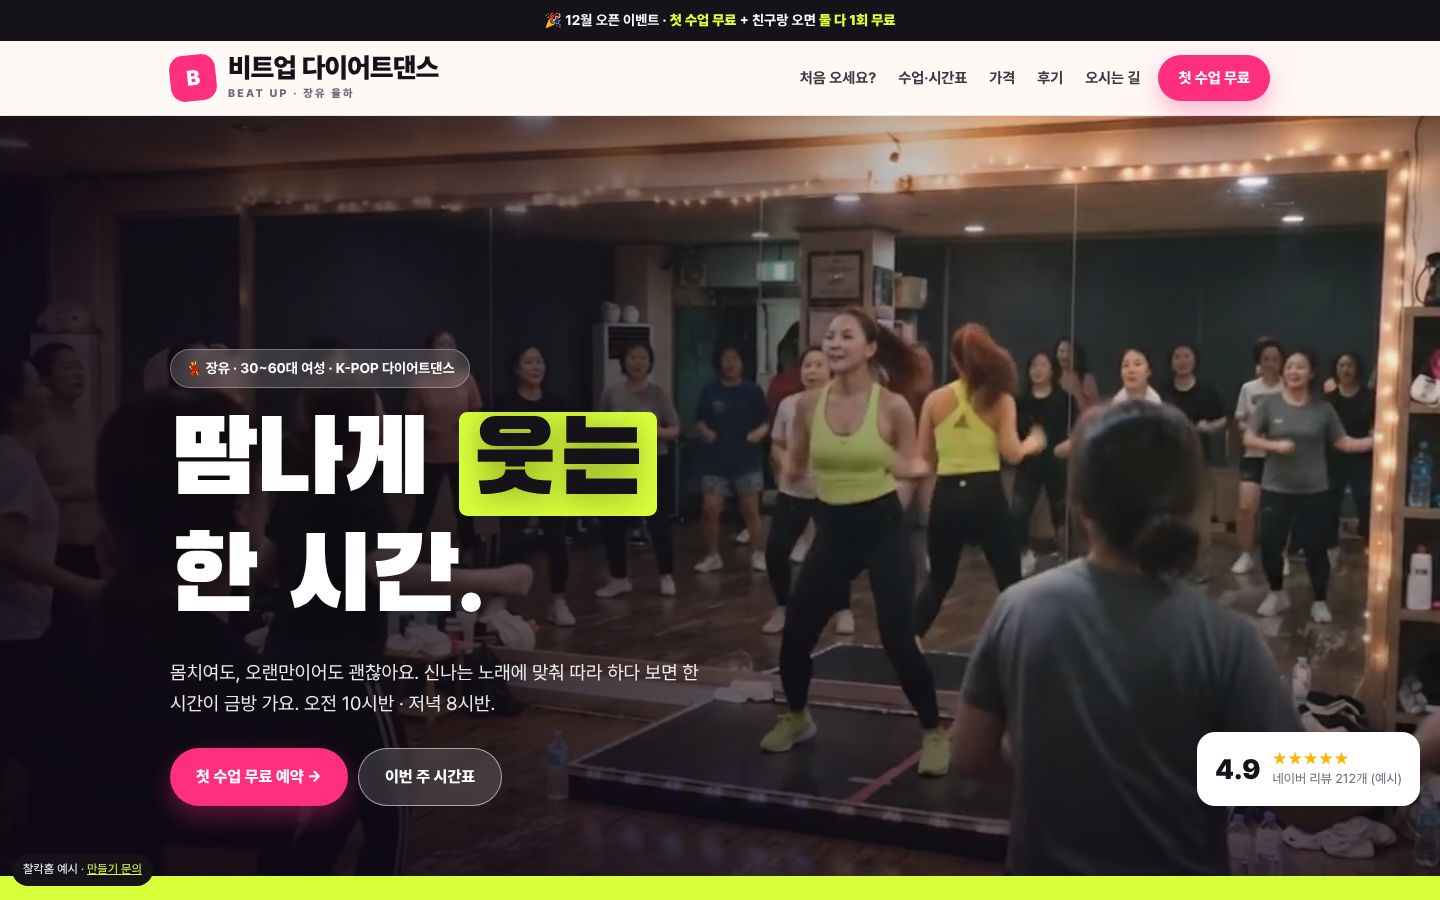
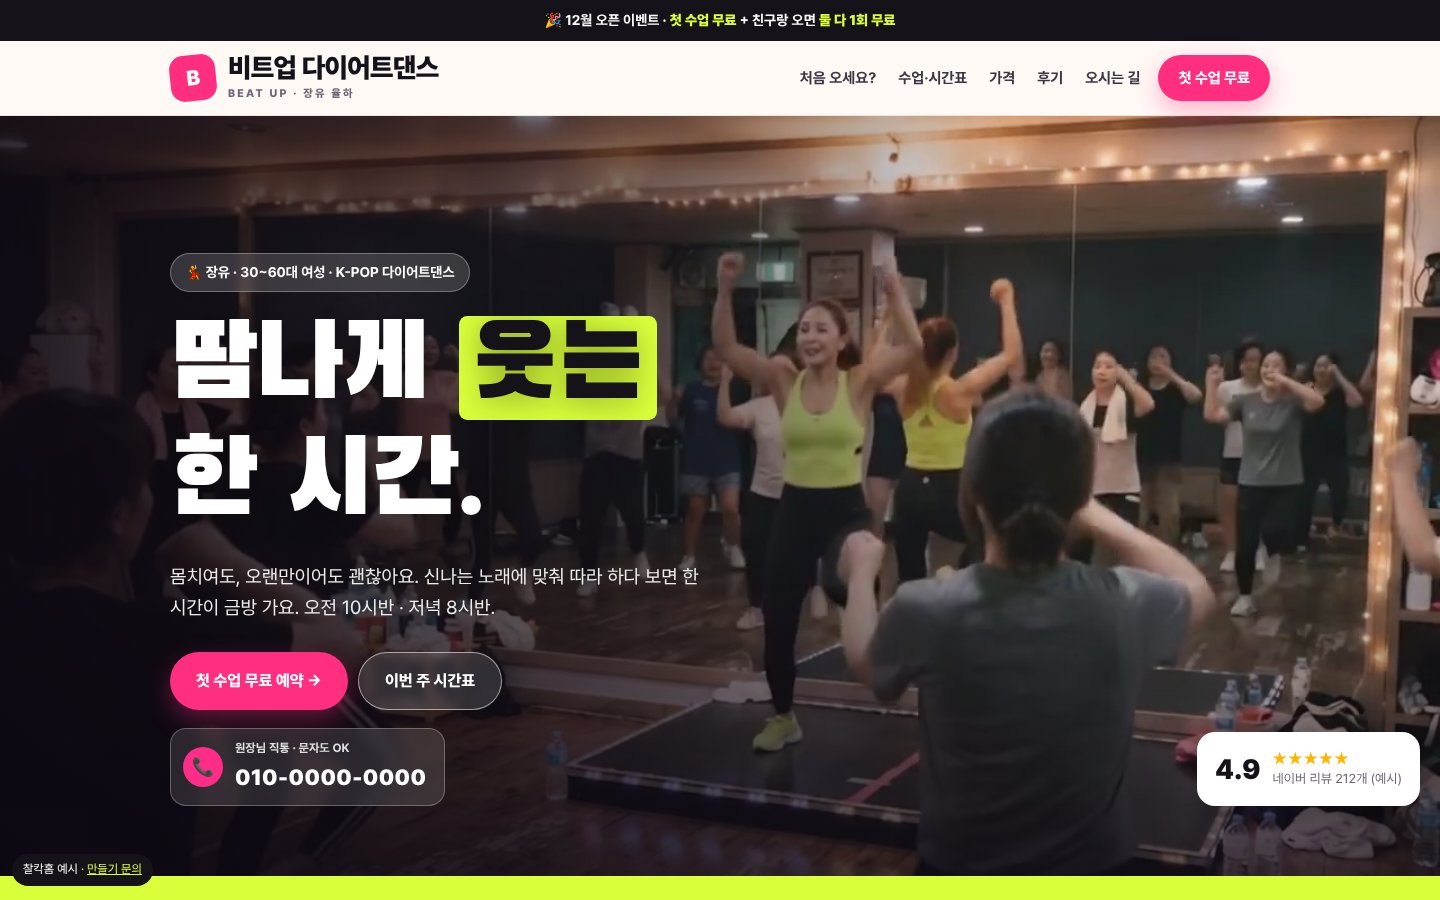
찰칵홈 포트폴리오에 비트업 다이어트댄스 추가
Claude-Session: https://claude.ai/code/session_01D8ERGz5r4FPkuXoKDYhqRw

diff --git a/web/index.html b/web/index.html
@@ -205,21 +205,22 @@ html{scroll-behavior:auto!important}
   <div class="cta"><a class="btn" href="#contact">🤝 맡기기 · 무료 견적</a><a class="btn o" href="#work">👀 만든 홈페이지 보기</a></div>
   <div class="trust"><span>⏱ 시안 <b>당일</b></span><span>🌐 한국어·영어 <b>동시</b></span><span>🔑 도메인·소스 <b>고객 소유</b></span></div>
  </div>
- <div class="wall" aria-label="찰칵홈이 만든 홈페이지"><a class="wi" href="https://kisthestar1-boop.github.io/hanbit-precision/" target="_blank" rel="noopener" style="background:#EEF2F7"><img src="img/pf_hb.jpg" alt="한빛정밀 · 정밀 가공 기업 화면"><span>🏭 기업</span></a><a class="wi" href="https://kisthestar1-boop.github.io/reve-de-beaute/" target="_blank" rel="noopener" style="background:#F6EFE6"><img src="img/pf_rv.jpg" alt="리브 드 보떼 · 데일리 주얼리 화면"><span>🛍 쇼핑몰 · 실제 브랜드</span></a><a class="wi" href="https://kisthestar1-boop.github.io/saebom-academy/" target="_blank" rel="noopener" style="background:#F3DA98"><img src="img/pf_ac.jpg" alt="새봄영어수학학원 · 동네 학원 화면"><span>📚 학원</span></a><a class="wi" href="https://kisthestar1-boop.github.io/ongyeol-pilates/" target="_blank" rel="noopener" style="background:#EEF1EA"><img src="img/pf_pl.jpg" alt="온결 필라테스 · 소형 스튜디오 화면"><span>🧘 필라테스</span></a></div>
+ <div class="wall" aria-label="찰칵홈이 만든 홈페이지"><a class="wi" href="https://kisthestar1-boop.github.io/hanbit-precision/" target="_blank" rel="noopener" style="background:#EEF2F7"><img src="img/pf_hb.jpg" alt="한빛정밀 · 정밀 가공 기업 화면"><span>🏭 기업</span></a><a class="wi" href="https://kisthestar1-boop.github.io/reve-de-beaute/" target="_blank" rel="noopener" style="background:#F6EFE6"><img src="img/pf_rv.jpg" alt="리브 드 보떼 · 데일리 주얼리 화면"><span>🛍 쇼핑몰 · 실제 브랜드</span></a><a class="wi" href="https://kisthestar1-boop.github.io/saebom-academy/" target="_blank" rel="noopener" style="background:#F3DA98"><img src="img/pf_ac.jpg" alt="새봄영어수학학원 · 동네 학원 화면"><span>📚 학원</span></a><a class="wi" href="https://kisthestar1-boop.github.io/ongyeol-pilates/" target="_blank" rel="noopener" style="background:#EEF1EA"><img src="img/pf_pl.jpg" alt="온결 필라테스 · 소형 스튜디오 화면"><span>🧘 필라테스</span></a><a class="wi" href="ex/beatup/" target="_blank" rel="noopener" style="background:#1B1424"><img src="img/pf_bu.jpg" alt="비트업 다이어트댄스 화면"><span>💃 다이어트댄스</span></a></div>
 </div>
 </div></div>
 <div class="kpi"><div class="w"><div><b>당일</b><span>첫 시안</span></div><div><b>2개 언어</b><span>한국어 · 영어 동시</span></div><div><b>49만 원~</b><span>제작비 한 번</span></div><div><b>고객 소유</b><span>도메인 · 소스 파일</span></div></div></div>
-<div class="inds"><div class="w"><b>업종별로 보기</b><button data-case="sh">⚙ 제조 리뉴얼<small>삼흥테크</small></button><button data-case="hb">🏭 기업<small>한빛정밀</small></button><button data-case="rv">🛍 쇼핑몰 · 실제 브랜드<small>리브 드 보떼</small></button><button data-case="ac">📚 학원<small>새봄영어수학학원</small></button><button data-case="pl">🧘 필라테스<small>온결 필라테스</small></button><span class="soonc">☕ 카페 · 🛋 인테리어 · 🩺 의원 — 곧 공개</span></div></div>
+<div class="inds"><div class="w"><b>업종별로 보기</b><button data-case="sh">⚙ 제조 리뉴얼<small>삼흥테크</small></button><button data-case="hb">🏭 기업<small>한빛정밀</small></button><button data-case="rv">🛍 쇼핑몰 · 실제 브랜드<small>리브 드 보떼</small></button><button data-case="ac">📚 학원<small>새봄영어수학학원</small></button><button data-case="bu">💃 다이어트댄스<small>비트업</small></button><button data-case="pl">🧘 필라테스<small>온결 필라테스</small></button><span class="soonc">☕ 카페 · 🛋 인테리어 · 🩺 의원 — 곧 공개</span></div></div>
 </div></div>
 
 <section id="work"><div class="w">
  <div class="sh"><span class="k">PORTFOLIO</span><h2>포트폴리오</h2><p>모두 <b>실제로 작동하는</b> 사이트예요. 카드를 누르면 사이트로 바로 들어가요.</p></div>
- <div class="flt"><button class="on" data-f="all">전체 5</button><button data-f="sh">⚙ 제조 리뉴얼</button><button data-f="hb">🏭 기업</button><button data-f="rv">🛍 쇼핑몰</button><button data-f="ac">📚 학원</button><button data-f="pl">🧘 필라테스</button></div>
+ <div class="flt"><button class="on" data-f="all">전체 6</button><button data-f="sh">⚙ 제조 리뉴얼</button><button data-f="hb">🏭 기업</button><button data-f="rv">🛍 쇼핑몰</button><button data-f="ac">📚 학원</button><button data-f="bu">💃 다이어트댄스</button><button data-f="pl">🧘 필라테스</button></div>
  <div class="pfx">
   <a style="--pbg:#E9EDF2" class="pfi" data-k="sh" href="https://kisthestar1-boop.github.io/samhung-tech/" target="_blank" rel="noopener"><div class="sh2" style="background:#E9EDF2"><img class="d" src="img/pf_sh.jpg" alt="삼흥테크 리뉴얼 시안 화면"><img class="m" src="img/pf_sh_m.jpg" alt=""></div><div class="ths"><img src="img/th_sh1.jpg" alt=""><img src="img/th_sh2.jpg" alt=""><img src="img/th_sh3.jpg" alt=""></div><div class="tx"><span class="tag">⚙ 제조 · 리뉴얼 시안</span><h3>삼흥테크 · 알루미늄 주조 공장</h3><small class="one">38년 된 공장 홈페이지를 새로 · 3개 언어 · 견적 게시판</small><span class="dt" data-case="sh">화면 · 기능 보기</span><span class="go">사이트 들어가기 ↗</span></div></a>
   <a style="--pbg:#EEF2F7" class="pfi" data-k="hb" href="https://kisthestar1-boop.github.io/hanbit-precision/" target="_blank" rel="noopener"><div class="sh2"><img class="d" src="img/pf_hb.jpg" alt="한빛정밀 홈페이지 화면"><img class="m" src="img/pf_hb_m.jpg" alt=""></div><div class="ths"><img src="img/th_hb1.jpg" alt=""><img src="img/th_hb2.jpg" alt=""><img src="img/th_hb3.jpg" alt=""></div><div class="tx"><span class="tag">🏭 기업 · 예시</span><h3>한빛정밀 · 정밀 가공 기업</h3><small class="one">서브 페이지 24개 · 도면 첨부 견적</small><span class="dt" data-case="hb">화면 · 기능 보기</span><span class="go">사이트 들어가기 ↗</span></div></a>
   <a style="--pbg:#F6EFE6" class="pfi r" data-k="rv" href="https://kisthestar1-boop.github.io/reve-de-beaute/" target="_blank" rel="noopener"><div class="sh2" style="background:#F6EFE6"><img class="d" src="img/pf_rv.jpg" alt="리브 드 보떼 쇼핑몰 화면"><img class="m" src="img/pf_rv_m.jpg" alt=""></div><div class="ths"><img src="img/th_rv1.jpg" alt=""><img src="img/th_rv2.jpg" alt=""><img src="img/th_rv3.jpg" alt=""></div><div class="tx"><span class="tag">🛍 판매자 · 실제 브랜드</span><h3>리브 드 보떼 · 데일리 주얼리</h3><small class="one">상품 8종 · 장바구니 · 카카오페이</small><span class="dt" data-case="rv">화면 · 기능 보기</span><span class="go">사이트 들어가기 ↗</span></div></a>
   <a style="--pbg:#F3DA98" class="pfi" data-k="ac" href="https://kisthestar1-boop.github.io/saebom-academy/" target="_blank" rel="noopener"><div class="sh2" style="background:#F3DA98"><img class="d" src="img/pf_ac.jpg" alt="새봄영어수학학원 홈페이지 화면"><img class="m" src="img/pf_ac_m.jpg" alt=""></div><div class="ths"><img src="img/th_ac1.jpg" alt=""><img src="img/th_ac2.jpg" alt=""><img src="img/th_ac3.jpg" alt=""></div><div class="tx"><span class="tag">📚 학원 · 예시</span><h3>새봄영어수학학원 · 동네 학원</h3><small class="one">시간표 · 레벨테스트 신청 · 카톡 상담</small><span class="dt" data-case="ac">화면 · 기능 보기</span><span class="go">사이트 들어가기 ↗</span></div></a>
+  <a style="--pbg:#1B1424" class="pfi" data-k="bu" href="ex/beatup/" target="_blank" rel="noopener"><div class="sh2" style="background:#1B1424"><img class="d" src="img/pf_bu.jpg" alt="비트업 다이어트댄스 홈페이지 화면"><img class="m" src="img/pf_bu_m.jpg" alt=""></div><div class="ths"><img src="img/th_bu1.jpg" alt=""><img src="img/th_bu2.jpg" alt=""><img src="img/th_bu3.jpg" alt=""></div><div class="tx"><span class="tag">💃 다이어트댄스 · 예시</span><h3>비트업 다이어트댄스 · 동네 댄스 학원</h3><small class="one">수업 영상 첫 화면 · 원장님 직통 번호 · 가격 공개</small><span class="dt" data-case="bu">화면 · 기능 보기</span><span class="go">사이트 들어가기 ↗</span></div></a>
   <a style="--pbg:#EEF1EA" class="pfi r" data-k="pl" href="https://kisthestar1-boop.github.io/ongyeol-pilates/" target="_blank" rel="noopener"><div class="sh2" style="background:#EEF1EA"><img class="d" src="img/pf_pl.jpg" alt="온결 필라테스 홈페이지 화면"><img class="m" src="img/pf_pl_m.jpg" alt=""></div><div class="ths"><img src="img/th_pl1.jpg" alt=""><img src="img/th_pl2.jpg" alt=""><img src="img/th_pl3.jpg" alt=""></div><div class="tx"><span class="tag">🧘 필라테스 · 예시</span><h3>온결 필라테스 · 소형 스튜디오</h3><small class="one">체험 가격 · 남은 자리 · 영상 첫 화면</small><span class="dt" data-case="pl">화면 · 기능 보기</span><span class="go">사이트 들어가기 ↗</span></div></a>
  </div>
  <div class="soon" style="margin-top:22px"><div>☕<b>동네 카페 · 베이커리</b>곧 공개 · 메뉴 · 예약 · 지도</div><div>🛋<b>인테리어 스튜디오</b>곧 공개 · 시공 사례 · 견적</div><div>🩺<b>한의원 · 의원</b>곧 공개 · 진료 안내 · 상담 예약</div></div>
@@ -328,7 +329,7 @@ $("#qForm").onsubmit=async e=>{e.preventDefault();const f={kind:$("#qKind").valu
  catch(err){ok.textContent="보내지 못했어요: "+err.message+" · 잠시 후 다시 시도해 주세요"}b.disabled=false};
 </script>
 <script>(()=>{const L=document.querySelectorAll(".lap .scr img"),M=document.querySelectorAll(".phn .scr img"),C=document.getElementById("stCap"),U=document.getElementById("stUrl");const T=[["한빛정밀 (예시)","기업 · 서브 페이지 24개","hanbit-precision"],["리브 드 보떼","쇼핑몰 · 주문 · 카카오페이","reve-de-beaute"]];let i=0;if(matchMedia("(prefers-reduced-motion: reduce)").matches)return;setInterval(()=>{i=(i+1)%T.length;L.forEach((x,k)=>x.classList.toggle("on",k===i));M.forEach((x,k)=>x.classList.toggle("on",k===i));C.innerHTML="<b>"+T[i][0]+"</b>"+T[i][1];U.textContent=T[i][2]},6000)})();</script>
-<script>(()=>{const C={"sh": {"u": "https://kisthestar1-boop.github.io/samhung-tech/", "t": "삼흥테크 · 알루미늄 주조 공장", "tag": "⚙ 제조 · 리뉴얼 시안", "bg": "#E9EDF2", "d": "pf_sh.jpg", "m": "pf_sh_m.jpg", "one": "2000년대에 머문 공장 홈페이지를 요즘 방식으로 바꾼 시안이에요. 실제 제품 사진을 선명하게 살리고, 공정 8단계와 설비·인증을 한눈에, 견적 게시판과 30초 주조 가능성 체크까지 넣었어요.", "th": [["th_sh1.jpg", "제품 갤러리 · 필터"], ["th_sh2.jpg", "공정 8단계 (누르면 설명)"], ["th_sh3.jpg", "견적 문의 게시판"]], "f": ["전·후 비교 팝업", "3단계 견적 · 도면 첨부", "30초 주조 가능성 체크", "한국어 · English · 日本語", "인증서 확대 · 구글 지도"]}, "hb": {"u": "https://kisthestar1-boop.github.io/hanbit-precision/", "t": "한빛정밀 · 정밀 가공 기업", "tag": "🏭 기업", "bg": "#EEF2F7", "d": "pf_hb.jpg", "m": "pf_hb_m.jpg", "one": "대기업처럼 전체 메뉴와 서브 페이지 24개. 숫자·인증·설비로 신뢰를 보여 주고, 도면을 첨부해 바로 견적을 받아요.", "th": [["th_hb1.jpg", "제품 소개"], ["th_hb2.jpg", "품질 · 지속가능경영"], ["th_hb3.jpg", "보도자료 · 공지"]], "f": ["전체 메뉴(메가 메뉴)", "서브 페이지 24개", "도면 첨부 견적 폼", "한국어 · 영어", "휴대폰 최적화"]}, "rv": {"u": "https://kisthestar1-boop.github.io/reve-de-beaute/", "t": "리브 드 보떼 · 데일리 주얼리", "tag": "🛍 쇼핑몰 · 실제 브랜드", "bg": "#F6EFE6", "d": "pf_rv.jpg", "m": "pf_rv_m.jpg", "one": "쿠팡에서 판매 중인 실제 브랜드의 자사몰. 상품 8종과 쿠팡 상세페이지를 연결했고 장바구니부터 카카오페이 주문까지 돼요.", "th": [["th_rv1.jpg", "베스트셀러 · 카테고리"], ["th_rv2.jpg", "선물 포장"], ["th_rv3.jpg", "목걸이에 담긴 이야기"]], "f": ["상품 8종 · 상세페이지", "장바구니 · 주문서", "카카오페이", "쿠팡 상세 연동", "선물 포장 옵션"]}, "ac": {"u": "https://kisthestar1-boop.github.io/saebom-academy/", "t": "새봄영어수학학원 · 동네 학원", "tag": "📚 학원", "bg": "#F3DA98", "d": "pf_ac.jpg", "m": "pf_ac_m.jpg", "one": "대형 어학원의 첫 화면 공식을 동네 학원에 맞췄어요. 레벨테스트를 3단계로 바로 신청하고, 카톡 상담도 그 자리에서 돼요.", "th": [["th_ac1.jpg", "학년 → 학교별 시간표"], ["th_ac2.jpg", "레벨테스트 신청 (3단계)"], ["th_ac3.jpg", "카톡 상담 창"]], "f": ["개강 소식 띠", "학교별 시간표", "레벨테스트 신청 → 문자 접수", "카톡 상담 · FAQ", "강사 · 성과"]}, "pl": {"u": "https://kisthestar1-boop.github.io/ongyeol-pilates/", "t": "온결 필라테스 · 소형 스튜디오", "tag": "🧘 필라테스", "bg": "#EEF1EA", "d": "pf_pl.jpg", "m": "pf_pl_m.jpg", "one": "처음 오는 사람이 망설이지 않게. 잔잔한 영상 첫 화면, 첫 체험 가격, 남은 자리가 보이는 시간표, 체험 예약까지.", "th": [["th_pl1.jpg", "수업 안내"], ["th_pl2.jpg", "남은 자리 시간표"], ["th_pl3.jpg", "체험 예약 폼"]], "f": ["영상 첫 화면 (잔잔하게)", "첫 체험 가격 공개", "남은 자리 시간표", "체험 예약 · 카톡 상담", "처음 오시나요? · FAQ"]}};const M=document.getElementById("cm"),B=document.getElementById("cmb");
+<script>(()=>{const C={"sh": {"u": "https://kisthestar1-boop.github.io/samhung-tech/", "t": "삼흥테크 · 알루미늄 주조 공장", "tag": "⚙ 제조 · 리뉴얼 시안", "bg": "#E9EDF2", "d": "pf_sh.jpg", "m": "pf_sh_m.jpg", "one": "2000년대에 머문 공장 홈페이지를 요즘 방식으로 바꾼 시안이에요. 실제 제품 사진을 선명하게 살리고, 공정 8단계와 설비·인증을 한눈에, 견적 게시판과 30초 주조 가능성 체크까지 넣었어요.", "th": [["th_sh1.jpg", "제품 갤러리 · 필터"], ["th_sh2.jpg", "공정 8단계 (누르면 설명)"], ["th_sh3.jpg", "견적 문의 게시판"]], "f": ["전·후 비교 팝업", "3단계 견적 · 도면 첨부", "30초 주조 가능성 체크", "한국어 · English · 日本語", "인증서 확대 · 구글 지도"]}, "hb": {"u": "https://kisthestar1-boop.github.io/hanbit-precision/", "t": "한빛정밀 · 정밀 가공 기업", "tag": "🏭 기업", "bg": "#EEF2F7", "d": "pf_hb.jpg", "m": "pf_hb_m.jpg", "one": "대기업처럼 전체 메뉴와 서브 페이지 24개. 숫자·인증·설비로 신뢰를 보여 주고, 도면을 첨부해 바로 견적을 받아요.", "th": [["th_hb1.jpg", "제품 소개"], ["th_hb2.jpg", "품질 · 지속가능경영"], ["th_hb3.jpg", "보도자료 · 공지"]], "f": ["전체 메뉴(메가 메뉴)", "서브 페이지 24개", "도면 첨부 견적 폼", "한국어 · 영어", "휴대폰 최적화"]}, "rv": {"u": "https://kisthestar1-boop.github.io/reve-de-beaute/", "t": "리브 드 보떼 · 데일리 주얼리", "tag": "🛍 쇼핑몰 · 실제 브랜드", "bg": "#F6EFE6", "d": "pf_rv.jpg", "m": "pf_rv_m.jpg", "one": "쿠팡에서 판매 중인 실제 브랜드의 자사몰. 상품 8종과 쿠팡 상세페이지를 연결했고 장바구니부터 카카오페이 주문까지 돼요.", "th": [["th_rv1.jpg", "베스트셀러 · 카테고리"], ["th_rv2.jpg", "선물 포장"], ["th_rv3.jpg", "목걸이에 담긴 이야기"]], "f": ["상품 8종 · 상세페이지", "장바구니 · 주문서", "카카오페이", "쿠팡 상세 연동", "선물 포장 옵션"]}, "ac": {"u": "https://kisthestar1-boop.github.io/saebom-academy/", "t": "새봄영어수학학원 · 동네 학원", "tag": "📚 학원", "bg": "#F3DA98", "d": "pf_ac.jpg", "m": "pf_ac_m.jpg", "one": "대형 어학원의 첫 화면 공식을 동네 학원에 맞췄어요. 레벨테스트를 3단계로 바로 신청하고, 카톡 상담도 그 자리에서 돼요.", "th": [["th_ac1.jpg", "학년 → 학교별 시간표"], ["th_ac2.jpg", "레벨테스트 신청 (3단계)"], ["th_ac3.jpg", "카톡 상담 창"]], "f": ["개강 소식 띠", "학교별 시간표", "레벨테스트 신청 → 문자 접수", "카톡 상담 · FAQ", "강사 · 성과"]}, "pl": {"u": "https://kisthestar1-boop.github.io/ongyeol-pilates/", "t": "온결 필라테스 · 소형 스튜디오", "tag": "🧘 필라테스", "bg": "#EEF1EA", "d": "pf_pl.jpg", "m": "pf_pl_m.jpg", "one": "처음 오는 사람이 망설이지 않게. 잔잔한 영상 첫 화면, 첫 체험 가격, 남은 자리가 보이는 시간표, 체험 예약까지.", "th": [["th_pl1.jpg", "수업 안내"], ["th_pl2.jpg", "남은 자리 시간표"], ["th_pl3.jpg", "체험 예약 폼"]], "f": ["영상 첫 화면 (잔잔하게)", "첫 체험 가격 공개", "남은 자리 시간표", "체험 예약 · 카톡 상담", "처음 오시나요? · FAQ"]}, "bu": {"u": "https://kisthestar1-boop.github.io/minsung-ai/web/ex/beatup/", "t": "비트업 다이어트댄스 · 동네 댄스 학원", "tag": "💃 다이어트댄스", "bg": "#1B1424", "d": "pf_bu.jpg", "m": "pf_bu_m.jpg", "one": "몸치도, 오랜만인 분도 망설이지 않게. 실제 수업 같은 영상 첫 화면에 원장님 직통 번호를 바로 붙이고, 가격과 이번 주 시간표를 숨김없이 보여 줘요.", "th": [["th_bu1.jpg", "이번 주 시간표"], ["th_bu2.jpg", "시간표 → 가격"], ["th_bu3.jpg", "가격 공개 · 강사 소개"]], "f": ["수업 영상 첫 화면", "원장님 직통 번호 · 바로 전화", "가격 · 시간표 공개", "친구랑 오면 둘 다 무료", "첫 수업 예약 폼"]}};const M=document.getElementById("cm"),B=document.getElementById("cmb");
 const open=k=>{const c=C[k];B.innerHTML=`<div class="ch"><span class="tag">${c.tag}</span><h3>${c.t}</h3></div>
 <div class="cg" style="background:${c.bg}"><img src="img/${c.d}" alt="${c.t} PC 화면"><img class="mb" src="img/${c.m}" alt="${c.t} 휴대폰 화면"></div>
 <div class="ct">${c.th.map(([i,t])=>`<figure><img src="img/${i}" alt="${t}"><figcaption>${t}</figcaption></figure>`).join("")}</div>
